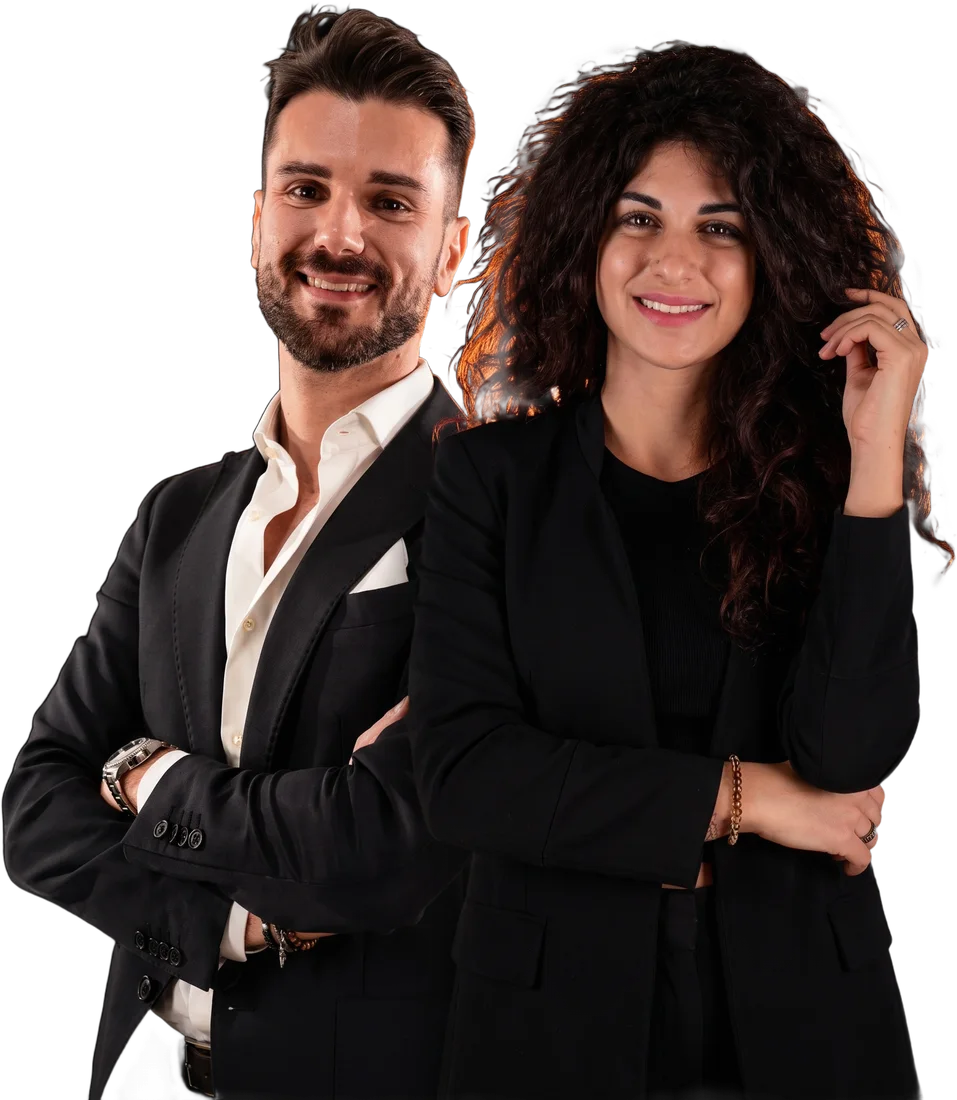
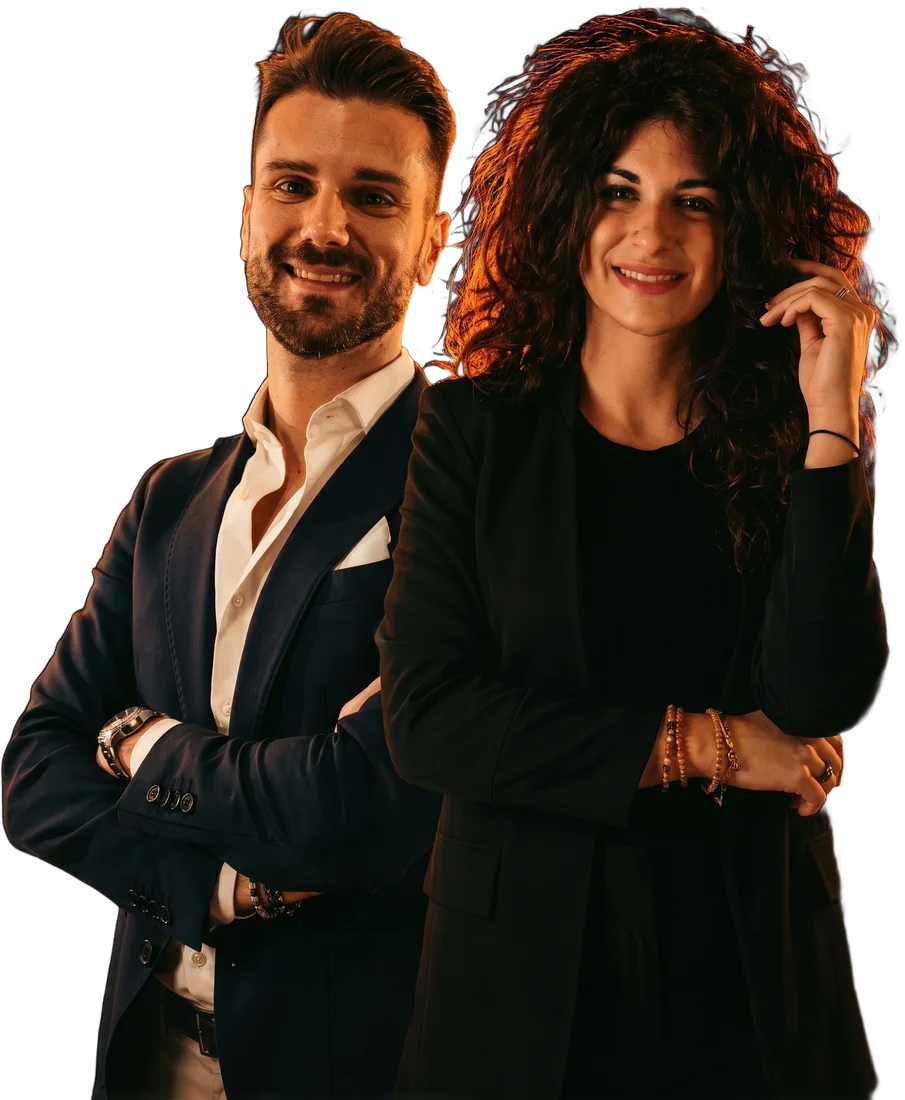
Casi studio: Evolutia dalla foto vera con luce cinematografica, foto di gruppo per Personal brand

diff --git a/index.html b/index.html
@@ -1878,7 +1878,8 @@
     ["Personal brand","Da 10k€/m a 50k€/m con sistemi installati, non con l'hype",
      "Negli ultimi anni abbiamo preso profili già competenti e li abbiamo trasformati in business con entrate mensili stabili. Non “contenuti virali”, ma offerte chiare, funnel puliti, CRM, processo vendite e delivery.",
      ["Financial Elite, Lorenzo Bignami → stabilizzato a 20k/mese.","100k SalesTraining, Ivan Greppi → scalato a 20k/mese.","Evolutia → stabilizzato a +30k/mese.","Growlancer → lanciato e portato a 600K in 6 mesi.","Digital Product Mastery → oltre 500K in 6 mesi."],
-     ""]
+     "",
+     "https://kelevraweb.github.io/profitos-vsl/img/casi/personal-brand.webp"]
   ];
   $("pos-casi").innerHTML = CASI.map(function (c) {
     /* le immagini sono quadrate 900x900: miniatura senza ritagli */
